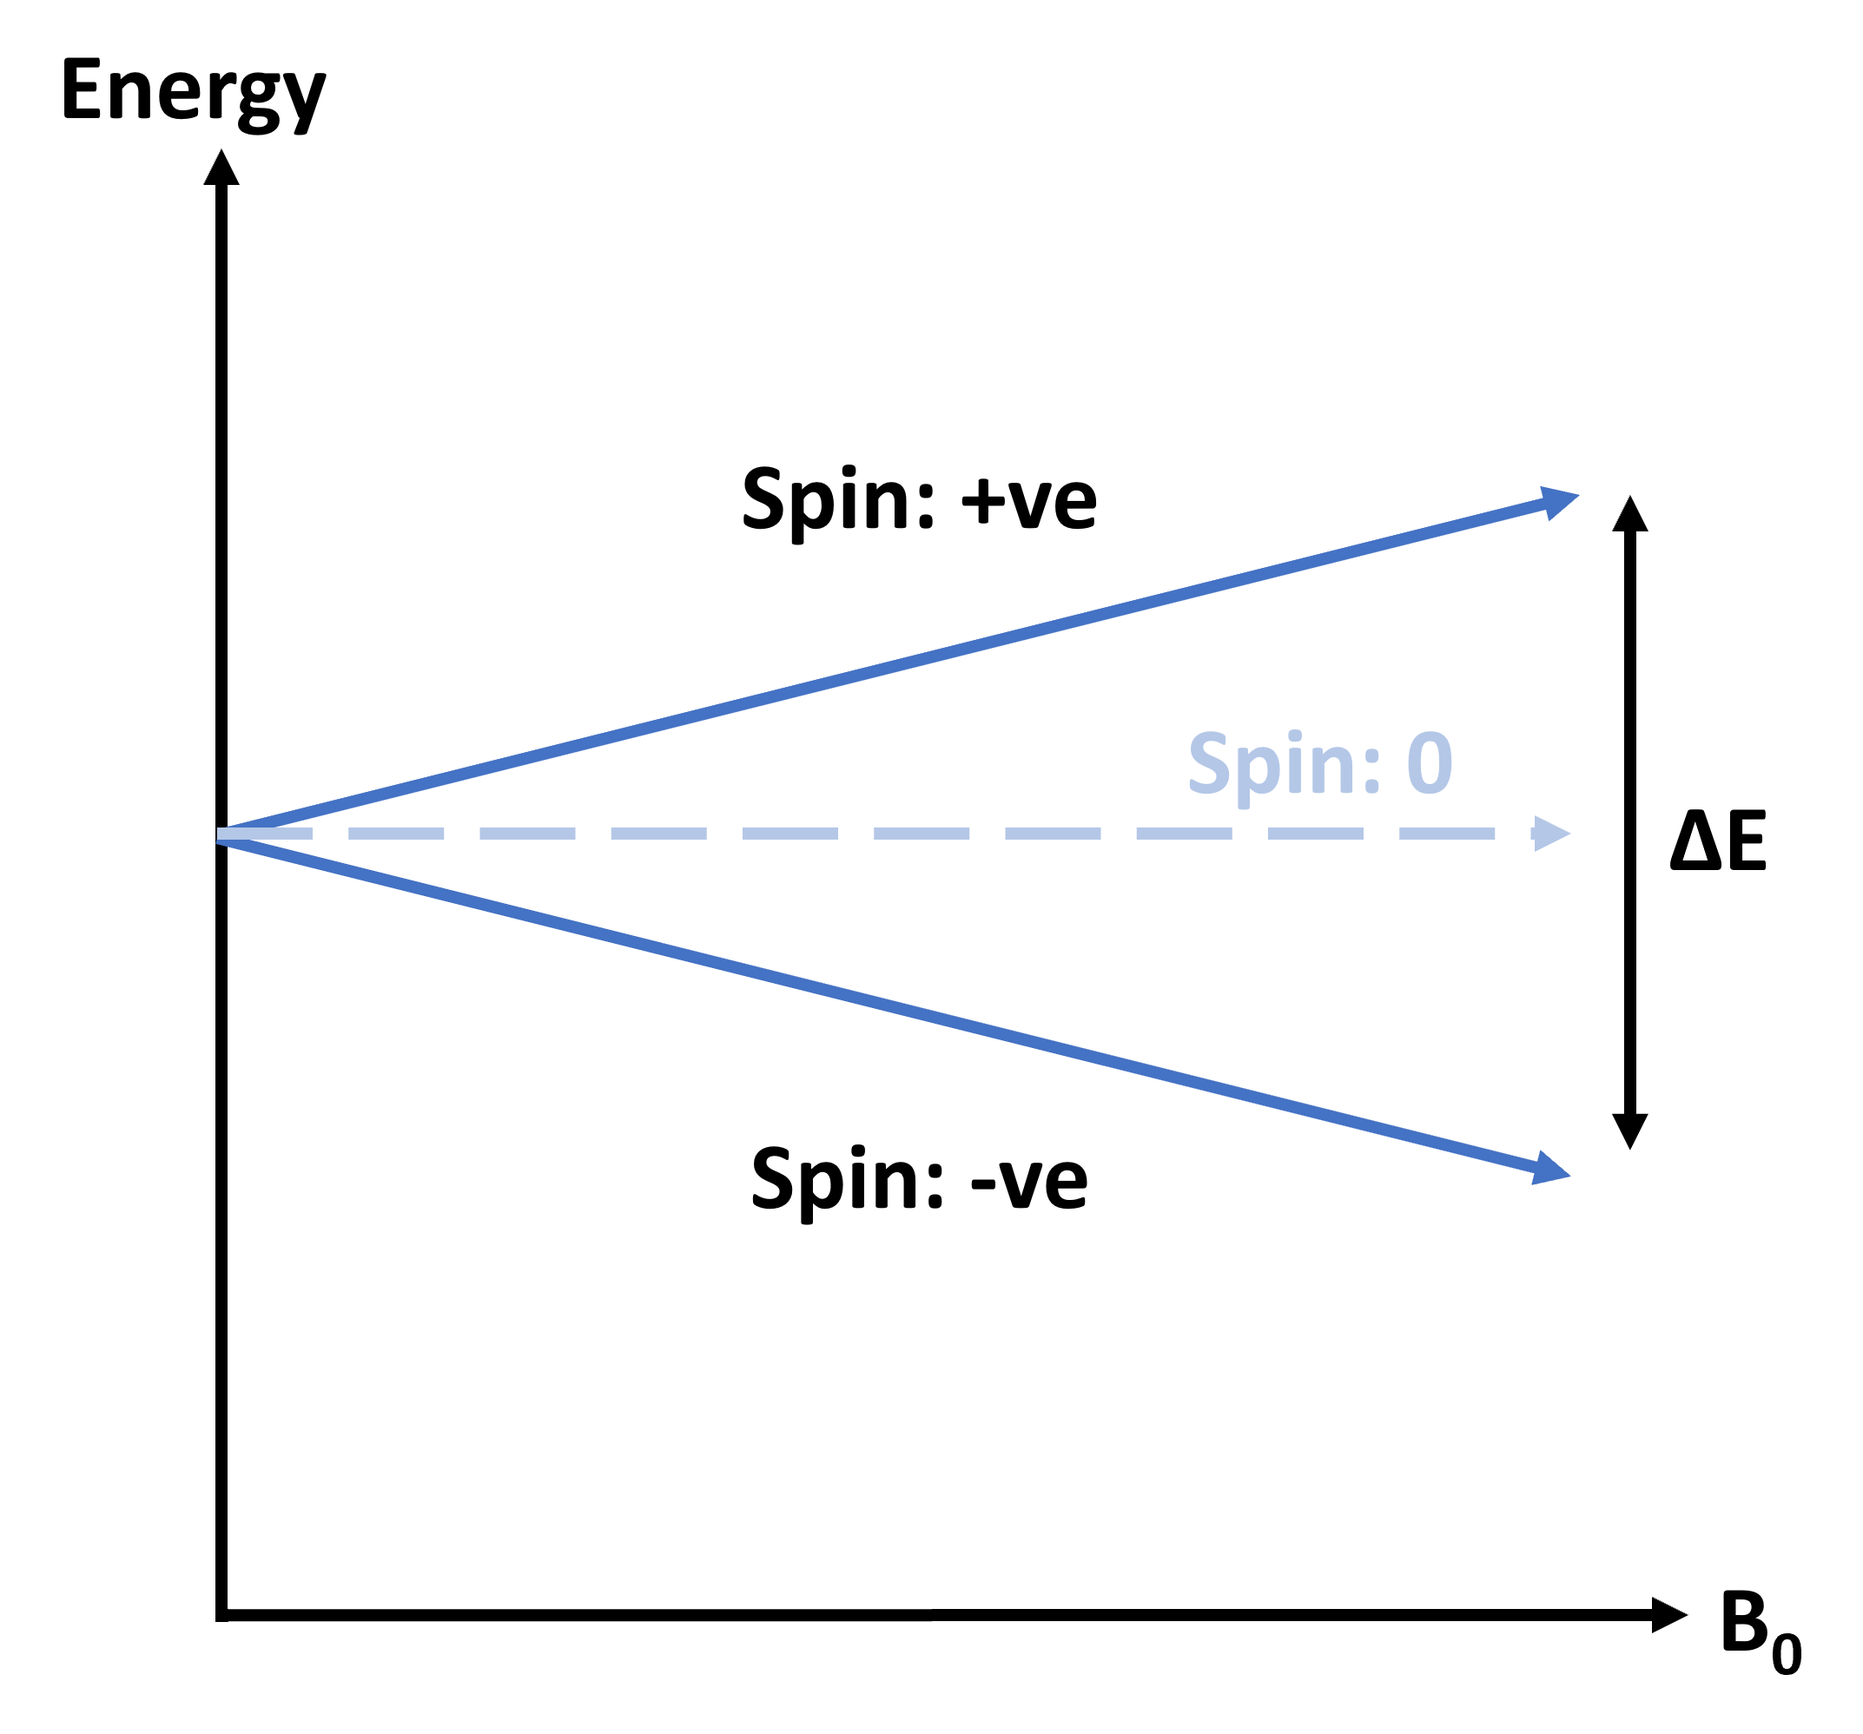
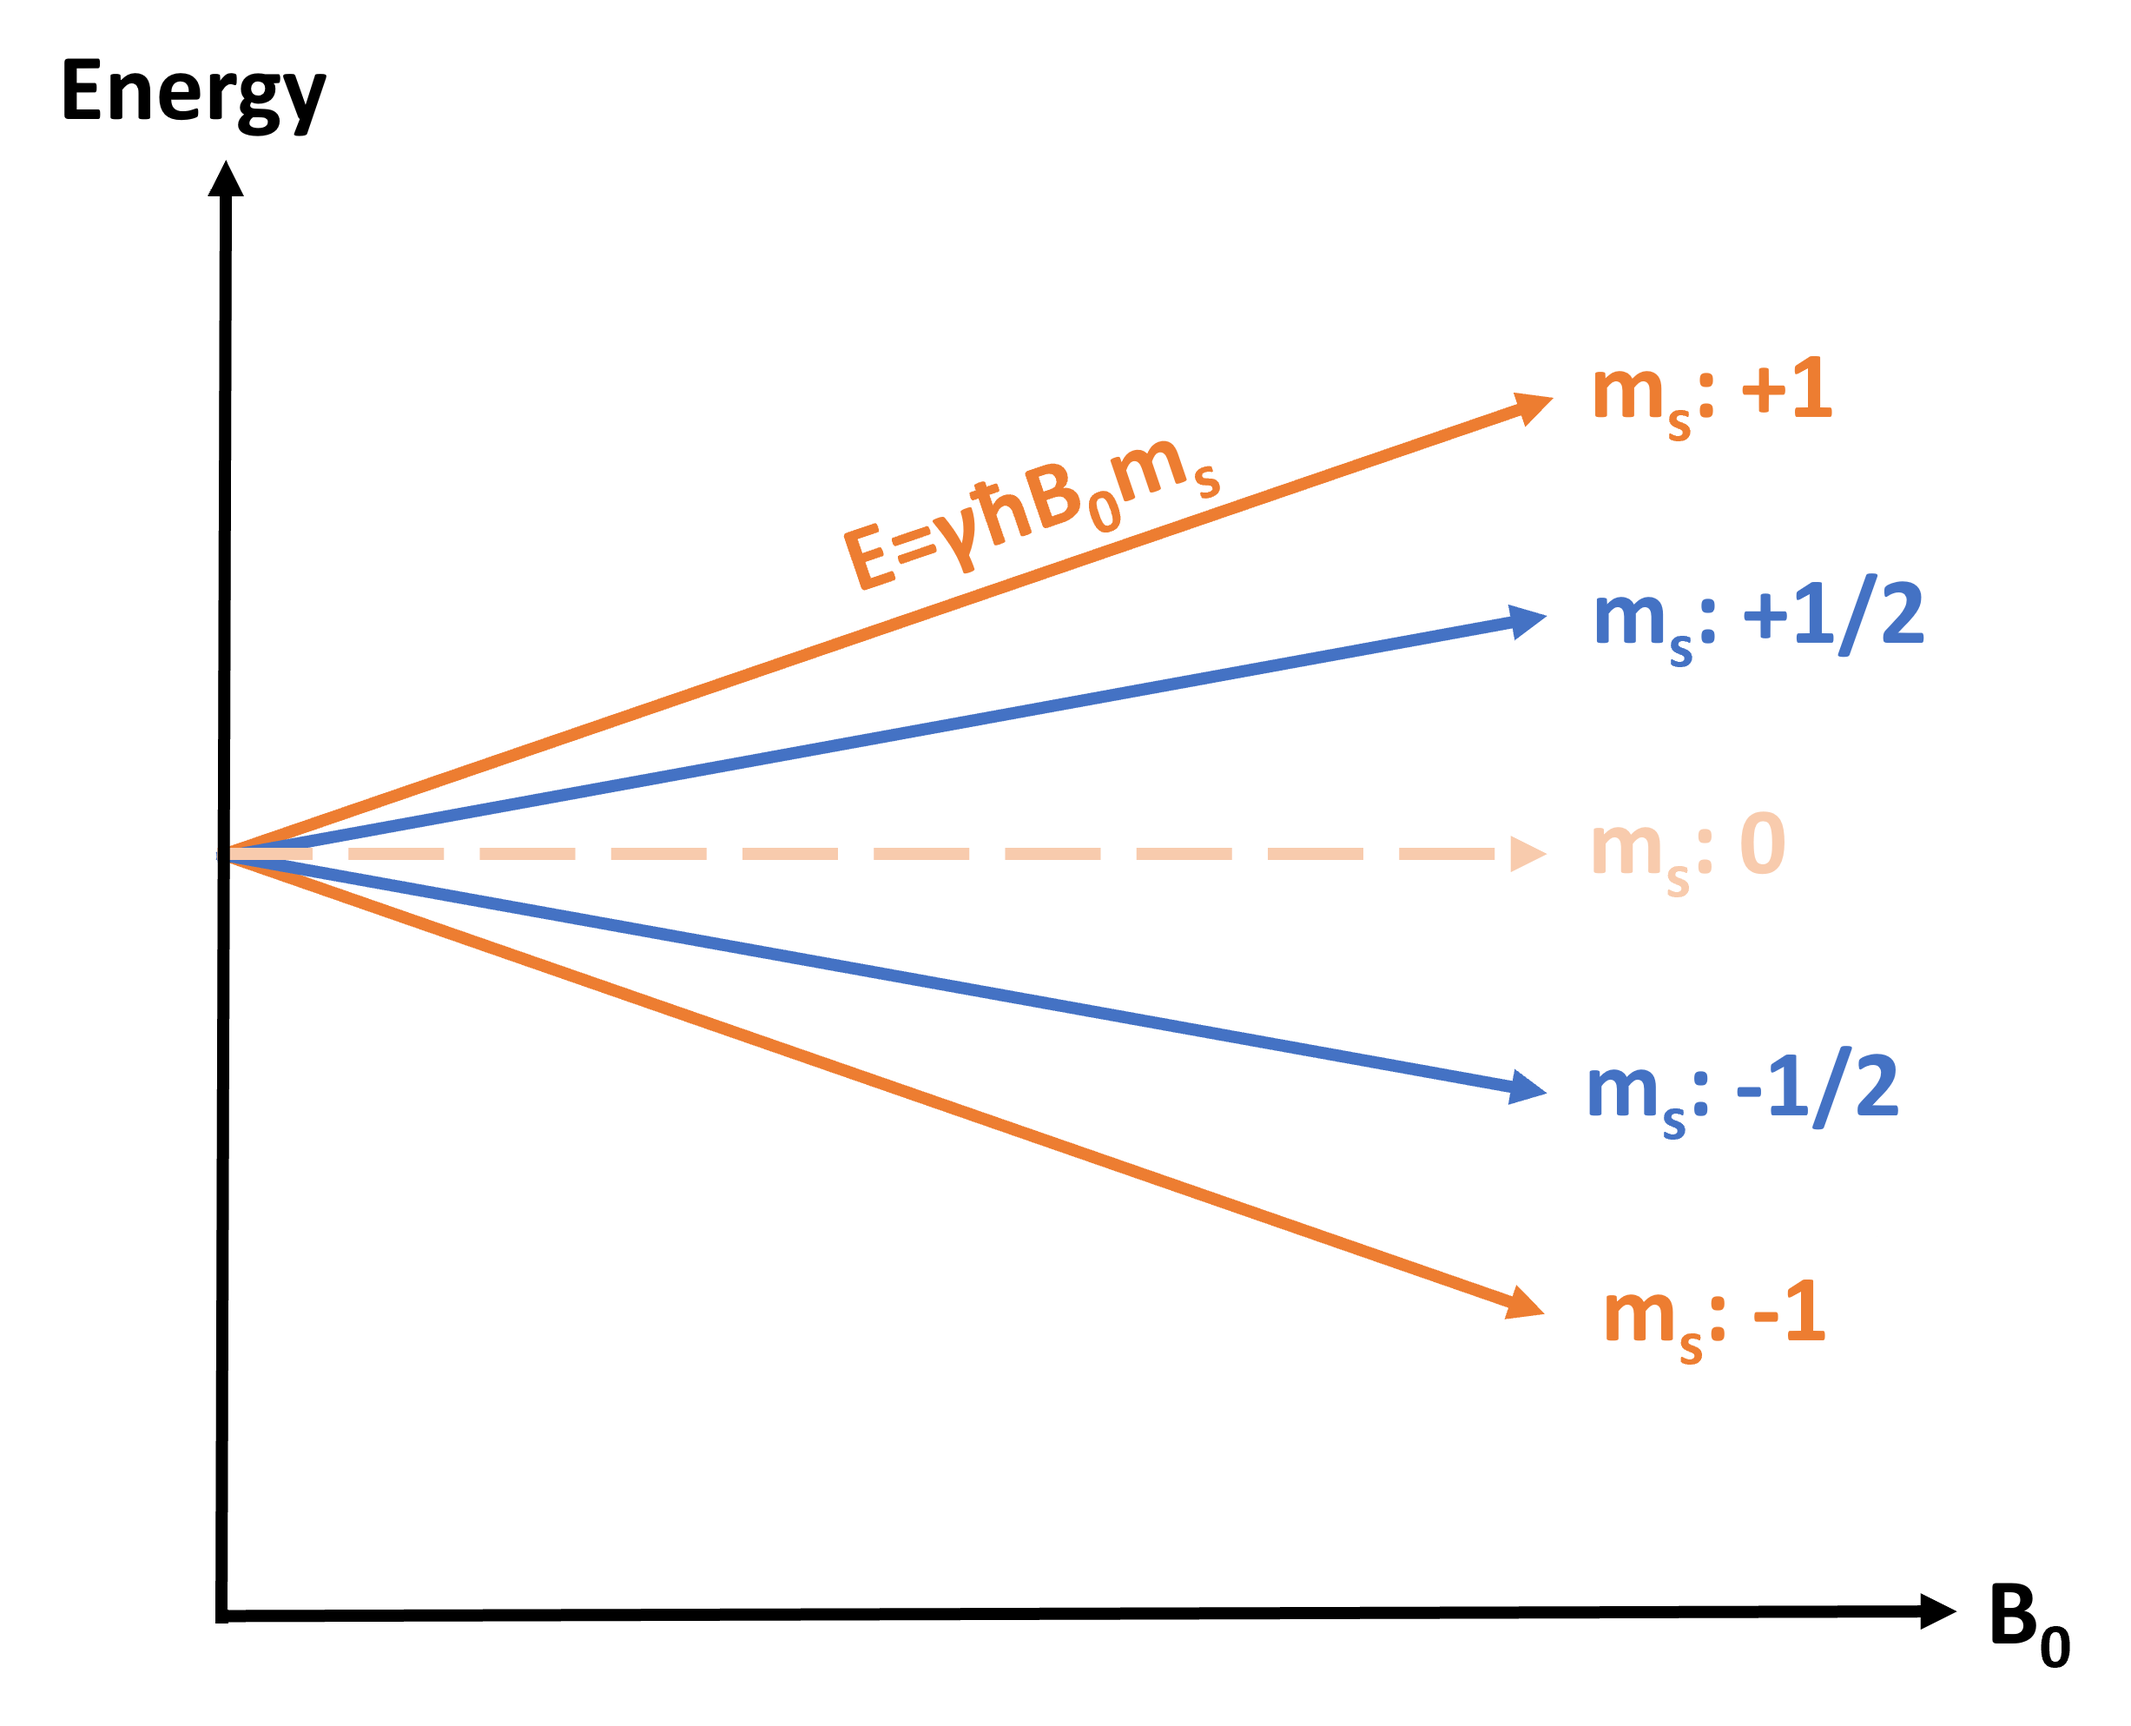
Changes made 21/02/2024

diff --git a/Chapters/Theory.tex b/Chapters/Theory.tex
@@ -2,28 +2,49 @@
 \label{Chap:Theory}
 
 \section{How \ac{NMR} Works}
-\subsection{The Quantum Behaviours}
+\subsection{Quantum Behaviour}
 
-All subatomic particles have a quantum 'spin' and its important to note that whilst the 'rotation' does not scale to the macroscopic world, a strong analogy can be made to the macroscopic spin to explain the physics behind their behaviour in the quantum world. This spin induces an angular momentum defined by the operator J, which is made up of orbital angular momentum ($L = r\, \textrm{x} \, p$, $r$ is position $p$ is momentum) as well as spin angular momentum ($S$ for total spin and $m_s$ for z-component). From Coulombs law \cite{Coulomb1785PremierMagnetisme} the spin of charges in an atomic nucleus will produce an alternating electric field, and from Faraday's law \cite{Faraday1821OnMagnetism} it is known that an alternating magnetic field will also be produced from this. The atomic nucleus can therefore be represented to a magnetic dipole (which is analogous to an electric dipole) which means it will possess a magnetic moment which will tell us how easily the nucleus wants to align with external magnetic fields. The magnetic moment ($\mu$) of a nucleus is dependent on the spin of a nucleus as shown in equation \ref{eqn:theory:moment}.
+Many subatomic particles have a quantum `spin' and its important to note that whilst the `rotation' does not scale to the macroscopic world, a strong analogy can be made to macroscopic spin to explain the physics behind their behaviour in the quantum world. This spin is linked to an angular momentum defined by the operator J, which is made up of orbital angular momentum ($\mathbf{L} = \mathbf{r}\, \textrm{x} \, \mathbf{p}$, $\mathbf{r}$ is position $\mathbf{p}$ is momentum) as well as spin angular momentum ($\mathbf{S}$ for total spin and $m_s$ for z-component). The spin of sub-atomic particles is associated with a magnetic moment. The atomic nucleus can therefore be represented to a magnetic dipole (which is analogous to an electric dipole) which tend to align with external magnetic fields. The magnetic moment ($\mathbf{\mu}$) of a nucleus is dependent on its spin as shown in equation \ref{eqn:theory:moment}.
 
 \begin{equation}
-    \mu = \frac{g_sq}{2m} \mathbf{S}
+    \mathbf{\mu} = \frac{g_sq}{2m} \mathbf{S}
     \label{eqn:theory:moment}
 \end{equation}
 
+Here, $\mathbf{S}$ is the spin angular momentum, $q$ is the charge, $g_s$ is dimensionless and is known as the spin g-factor and $m$ is the mass. The constant of proportionality linking the magnetic moment to the spin is known as the gyromagnetic ratio ($\gamma$) and is a constant for each nucleus. 
+
 \begin{equation}
-    \gamma = \frac{q}{2m}
+    \gamma = \frac{g_sq}{2m}
     \label{eqn:theory:gyro}
 \end{equation}
 
-Here, $q$ is the charge, $g_s$ is dimensionless and is known as the spin g-factor and $m$ is the mass. The strength of the coupling between the magnetic moment is known as the gyromagnetic ratio ($\gamma$) and is a constant for each nucleus. When the nucleus is placed in an external static magnetic field ($B_0$) it will possess an energy according to equation \ref{eqn:theory:ESpin} which is also dependent on $\mu$.
+When a nucleus is exposed to an external static magnetic field ($\mathbf{B}$) it will possess an energy according to equation \ref{eqn:theory:ESpin} which is also dependent on $\mu$.
+
+\begin{equation}
+    E = \mathbf{\mu} \cdot \mathbf{B}
+\end{equation}
+
+In 1922 an experiment was undertaken \cite{Gerlach1922DerMagnetfeld} which showed that spin only takes specific discrete values ($s =$ 0, 1/2, 1, 3/2 ...), which gives eigenvalues for the angular momentum operator $\mathbf{S}$ as $\hbar m_s$. Where $m_s$ can take values of $-s$ to $+s$ in integer steps. Which means the magnetic moment and therefore the energy will also take specific discrete energy levels.
 
 \begin{equation}
     E = -m_s\hbar \gamma B_0
     \label{eqn:theory:ESpin}
 \end{equation}
 
-In 1922 an experiment was undertaken \cite{Gerlach1922DerMagnetfeld} which showed that spin only takes specific discrete values (0, 1/2, 1, 3/2 ...), which gives eigenvalues for the $\mathbf{S}$ operator as $\hbar m_s$. Which means the magnetic moment and therefore the energy will also take specific discrete energy levels, which can be seen in Figure \ref{fig:theory:zeeman}.
+This is evident in Figure \ref{fig:theory:zeeman}. The energy of an electromagnetic photon is directly 
+proportional to its frequency ($f$), with a constant of proportionality equal to Planck's constant $h$, this is known as the Planck relation. Therefore, an absorbed photon will need a minimum energy equal to the separation between these quantified energy states, this relationship is shown in equation \ref{eqn:theory:ELamor}.
+
+\begin{equation}
+    \Delta E = hf = \frac{h}{2\pi}\gamma B_0
+    \label{eqn:theory:ELamor}
+\end{equation}  
+
+The nucleus' frequency of precession here is therefore directly proportional to the magnitude of the applied external magnetic field ($B_0$), with $\gamma$ being the constant of proportionality meaning this frequency is also specific to each nucleus. This frequency is called the Larmor frequency \cite{Larmor1897LXIII.Ions} and is often represented as an angular frequency ($\omega$). Which therefore shows that for a nucleus with spin the energy, frequency and applied magnetic field share a quantum relationship. 
+
+\begin{equation}
+    \omega = \gamma B_0
+    \label{eqn:theory:Lamor}
+\end{equation}
 
 \begin{figure}[h]
     \centering
@@ -32,25 +53,11 @@ In 1922 an experiment was undertaken \cite{Gerlach1922DerMagnetfeld} which showe
     \label{fig:theory:zeeman}
 \end{figure}
 
-Now a picture has been made that links the energy in a static magnetic field of a nucleus to its spin, it turns out that the frequency of the spin is specific to each nuclei. This angular frequency is known as the Larmor frequency \cite{Larmor1897LXIII.Ions} ($\omega$) and relates the ($\gamma$) to the static magnetic field.
+This gives a good overview of how individual spins act and behave in magnetic fields, however our bodies contain a collection of spins of different nuclei. Therefore, it is important to apply these relationships to a collection of spins which will give an overview of macroscopic behaviours that make up the theory of \ac{NMR}.
 
-\begin{equation}
-    \omega = \gamma B_0
-    \label{eqn:theory:Lamor}
-\end{equation}
+\subsection{Macroscopic Behaviour}
 
-Since there is a relationship between the energy and the static magnetic field along with a relationship between the static magnetic field and the Larmor frequency a relationship can be drawn between the energy and the Larmor frequency. It turns out that the energy is directly proportional to the Larmor frequency with Planck's constant ($h$) being the constant of proportionality, this is shown empirically in equation \ref{eqn:theory:ELamor}.
-
-\begin{equation}
-    E = hf
-    \label{eqn:theory:ELamor}
-\end{equation}
-
-This gives a good overview of how individual spins act and behave in magnetic fields, however our bodies are made up of collection of spins of different nuclei. Therefore, it is vitally important to apply these relationships to a collection of spins which will give an overview of macroscopic behaviours that make up the theory of \ac{NMR}.
-
-\subsection{The Macroscopic Behaviour}
-
-The nuclei of interests for \ac{NMR} are in the liquid state which means the motion of the spin is largely random and due to Brownian motion, thermal energy then becomes the dominant driving force and therefore quantum effects become negligible. When particles have a large enough temperature ($T$) and there's enough particles, the distribution over multiple energy levels can be described according to the Boltzmann distribution \cite{Boltzmann1872WeitereGasmolekulen}. Equation \ref{eqn:theory:boltz} empirically states the probability $p$ of a single particle being in a specific state.
+The molecules of interest for \ac{MRI} are in the liquid state which means the motion of the spin is largely random and due to Brownian motion, thermal energy then becomes the dominant driving force and therefore quantum effects become negligible. When particles have a large enough temperature ($T$) and there are enough particles, the distribution over multiple energy levels can be described according to the Boltzmann distribution \cite{Boltzmann1872WeitereGasmolekulen}. Equation \ref{eqn:theory:boltz} empirically states the probability $p$ of a single particle being in a specific state.
 
 \begin{equation}
     p_i = \frac{\exp\left(\frac{E_i}{k_BT}\right)}{\displaystyle \sum_{j = 1}^{M}\exp\left(\frac{E_j}{k_BT}\right)}
